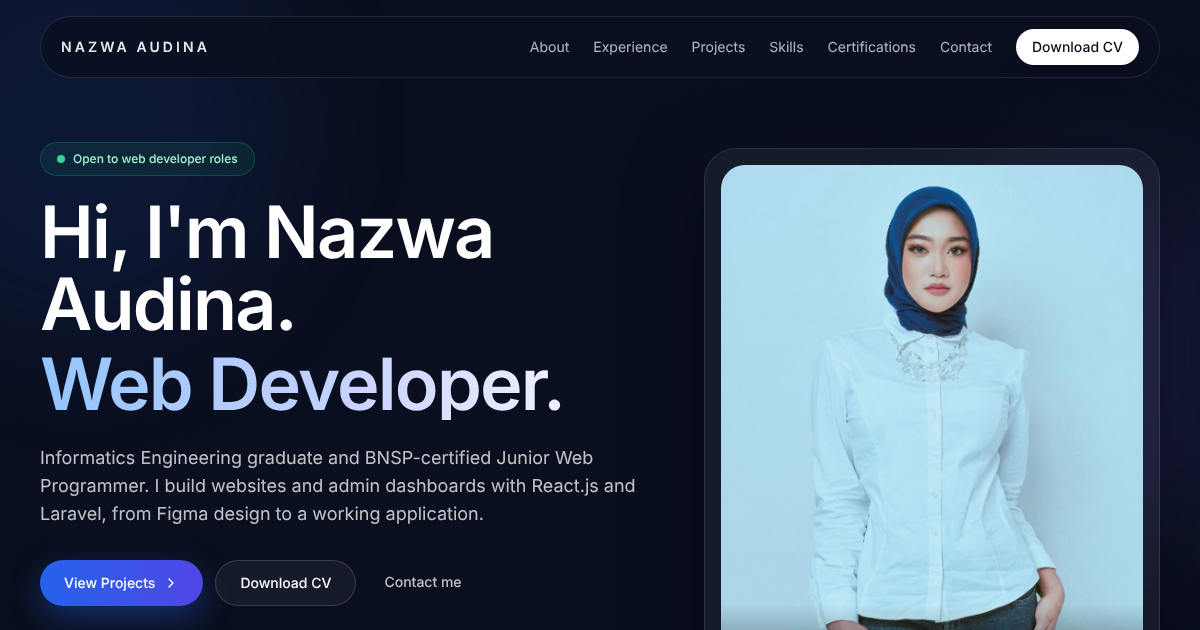
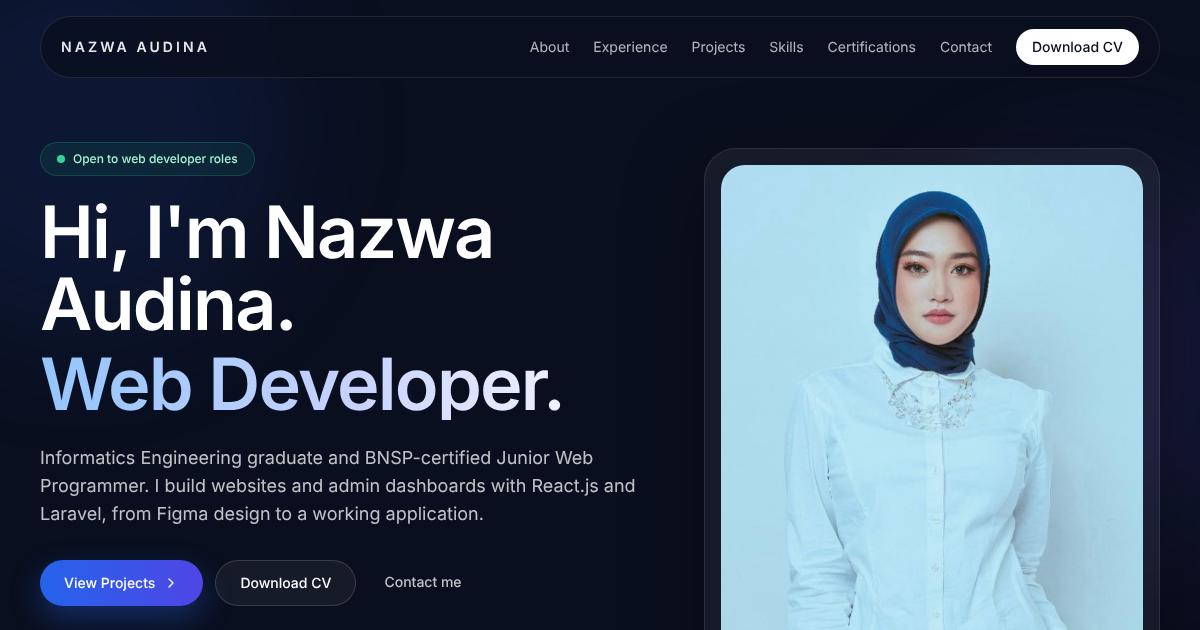
Use single professional photo in hero

diff --git a/src/NazwaPortfolio.jsx b/src/NazwaPortfolio.jsx
@@ -1,12 +1,5 @@
 import { useEffect, useState } from 'react';
-import hero1 from './assets/hero/hero1.jpeg';
-import hero2 from './assets/hero/hero2.jpeg';
-import hero3 from './assets/hero/hero3.jpeg';
-import hero4 from './assets/hero/hero4.jpeg';
-import hero5 from './assets/hero/hero5.jpeg';
-import hero6 from './assets/hero/hero6.jpeg';
-import hero7 from './assets/hero/hero7.jpeg';
-import hero8 from './assets/hero/hero8.jpeg';
+import profilePhoto from './assets/hero/profile.jpg';
 import laWebsite from './assets/Projects/la.png';
 import academyNextTopModel from './assets/Projects/Academy Next Top Model.png';
 import levioraFashion from './assets/Projects/Leviora.png';
@@ -233,19 +226,9 @@ function ArrowIcon({ direction = 'right', className = 'h-4 w-4' }) {
 }
 
 export default function NazwaPortfolio() {
-  const [currentImageIndex, setCurrentImageIndex] = useState(0);
   const [isMenuOpen, setIsMenuOpen] = useState(false);
   const [showTop, setShowTop] = useState(false);
   const [activeSection, setActiveSection] = useState('');
-
-  const heroImages = [hero1, hero2, hero3, hero4, hero5, hero6, hero7, hero8];
-
-  useEffect(() => {
-    const interval = setInterval(() => {
-      setCurrentImageIndex((prev) => (prev + 1) % heroImages.length);
-    }, 5000);
-    return () => clearInterval(interval);
-  }, [heroImages.length]);
 
   useEffect(() => {
     const onScroll = () => {
@@ -375,38 +358,12 @@ export default function NazwaPortfolio() {
 
           <div className="relative mx-auto w-full max-w-sm md:max-w-none">
             <div className="rounded-[2rem] border border-white/10 bg-white/5 p-4 shadow-[0_20px_80px_rgba(0,0,0,0.35)]">
-              <div className="relative overflow-hidden rounded-[1.5rem]">
+              <div className="overflow-hidden rounded-[1.5rem]">
                 <img
-                  src={heroImages[currentImageIndex]}
+                  src={profilePhoto}
                   alt="Nazwa Audina"
                   className="aspect-[4/5] w-full object-cover object-top"
                 />
-                <div className="absolute inset-x-0 bottom-0 flex items-center justify-between bg-gradient-to-t from-black/60 to-transparent px-4 pb-4 pt-10">
-                  <button
-                    onClick={() => setCurrentImageIndex((p) => (p - 1 + heroImages.length) % heroImages.length)}
-                    className="rounded-full bg-white/15 p-2 text-white backdrop-blur transition hover:bg-white/25"
-                    aria-label="Previous photo"
-                  >
-                    <ArrowIcon direction="left" />
-                  </button>
-                  <div className="flex gap-1.5">
-                    {heroImages.map((_, i) => (
-                      <button
-                        key={i}
-                        onClick={() => setCurrentImageIndex(i)}
-                        className={`h-1.5 rounded-full transition-all ${i === currentImageIndex ? 'w-5 bg-white' : 'w-1.5 bg-white/50'}`}
-                        aria-label={`Show photo ${i + 1}`}
-                      />
-                    ))}
-                  </div>
-                  <button
-                    onClick={() => setCurrentImageIndex((p) => (p + 1) % heroImages.length)}
-                    className="rounded-full bg-white/15 p-2 text-white backdrop-blur transition hover:bg-white/25"
-                    aria-label="Next photo"
-                  >
-                    <ArrowIcon />
-                  </button>
-                </div>
               </div>
             </div>
           </div>
